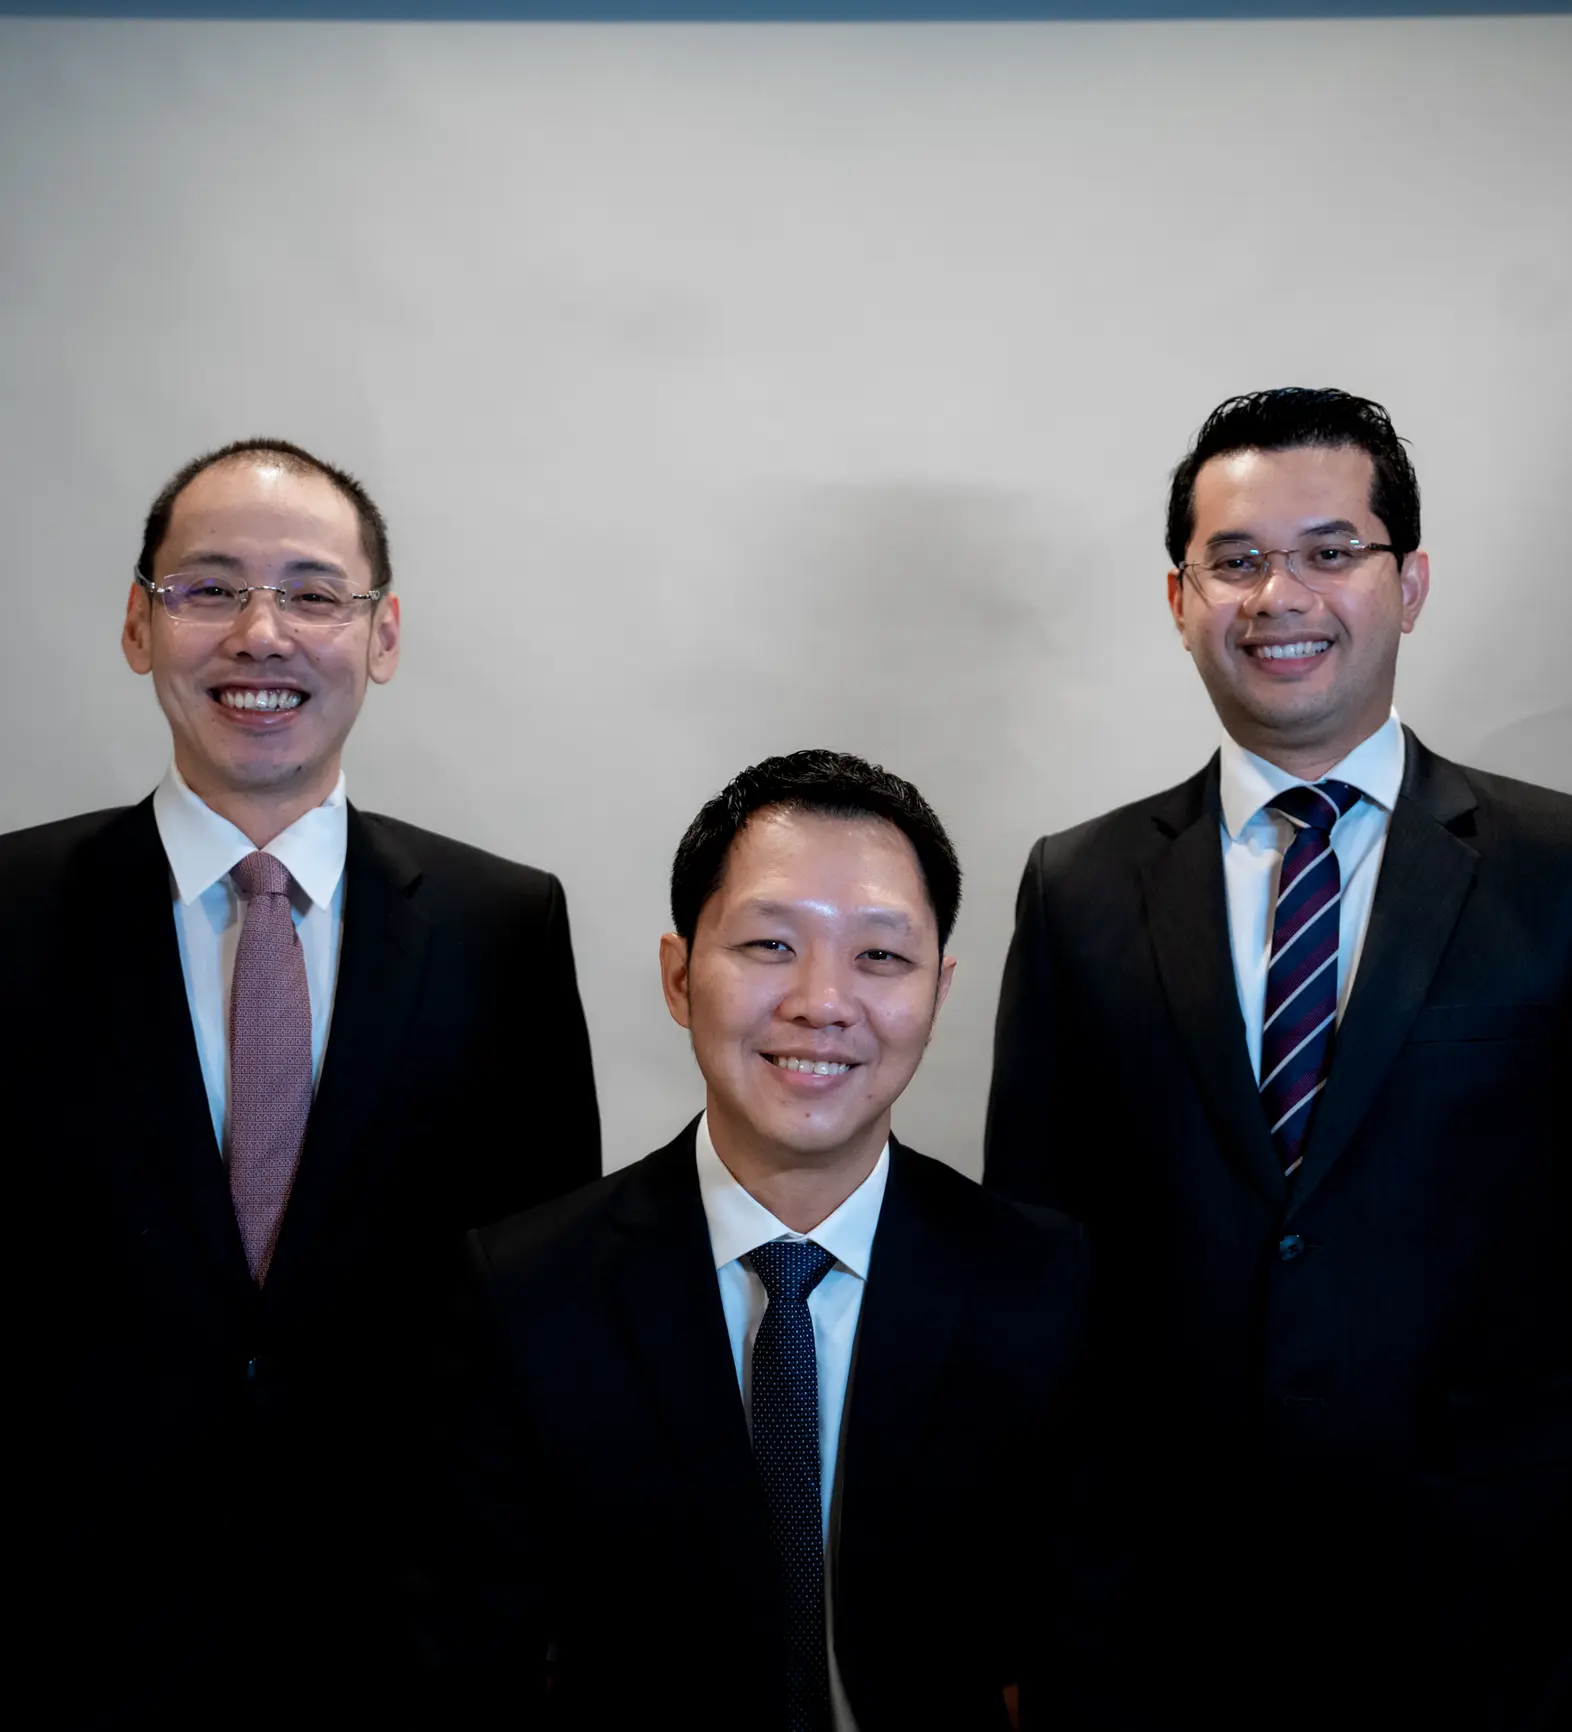
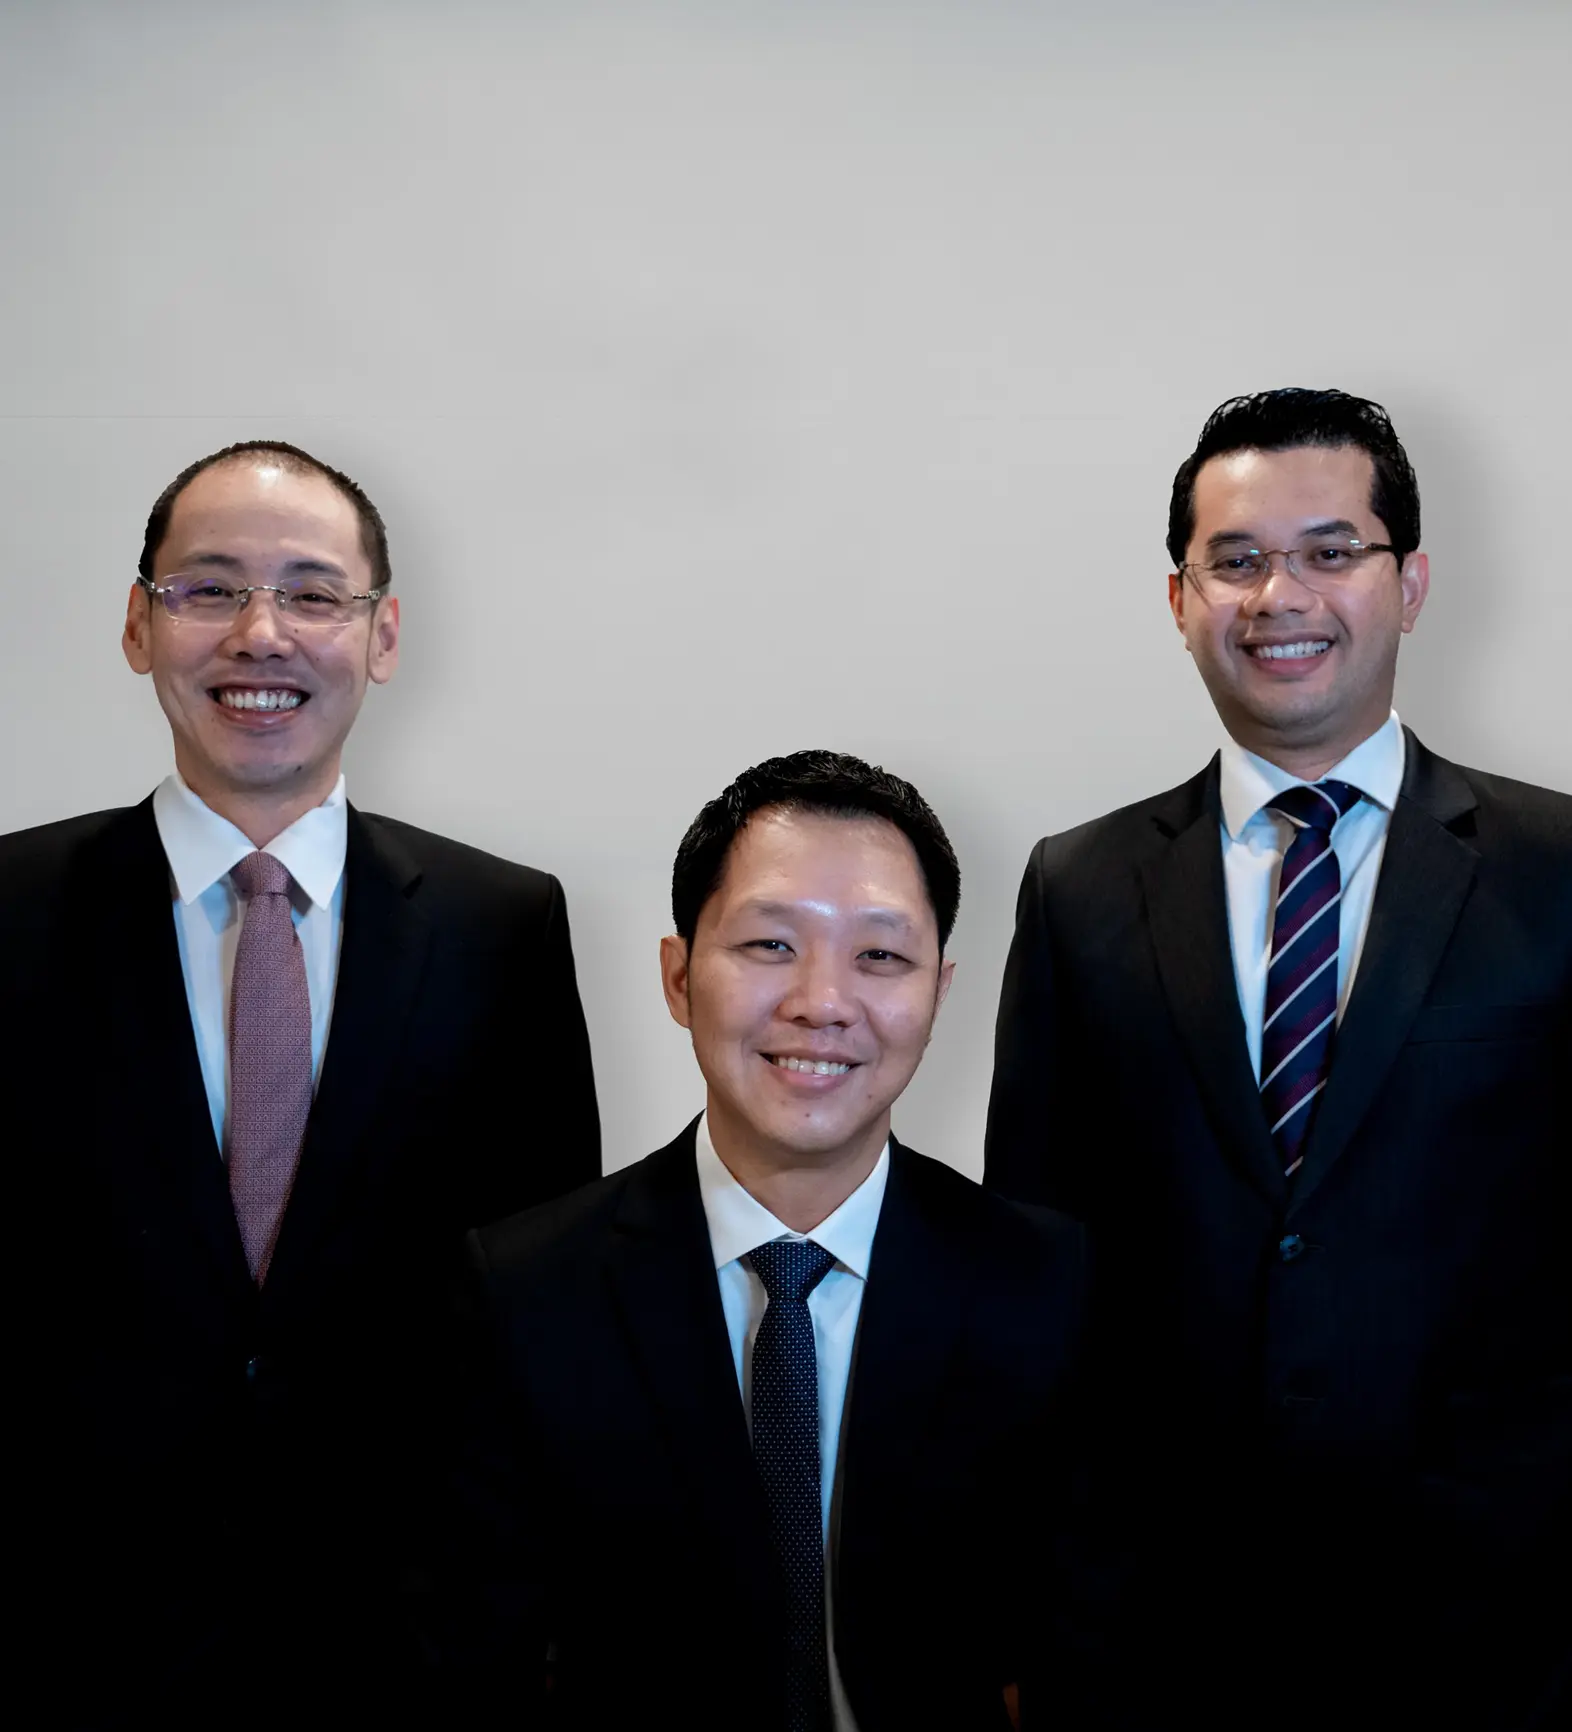
refactor:image about us

diff --git a/src/components/about/Visi-misi.tsx b/src/components/about/Visi-misi.tsx
@@ -24,7 +24,7 @@ const VisiMisi = () => {
             ${isHovered === 'visi' ? 'opacity-100' : 'sm:opacity-0 opacity-100'}`}
                 />
 
-                <div className="absolute inset-0 z-20 flex flex-col sm:flex-row items-center justify-between w-full px-[8vw] sm:px-[8vw]">
+                <div className="absolute inset-0 z-20 flex flex-col sm:flex-row items-center justify-center sm:justify-between w-full px-[8vw] sm:px-[8vw]">
                     <h1 className="font_britanica_black text-white text-[clamp(6vw,6vw,6rem)] sm:text-[clamp(3.2vw,3.2vw,3.2rem)] py-[2vw] sm:py-[1.6vw]">
                         VISION
                     </h1>
@@ -50,7 +50,7 @@ const VisiMisi = () => {
             ${isHovered === 'misi' ? 'opacity-100' : 'sm:opacity-0 opacity-100'}`}
                 />
 
-                <div className="absolute inset-0 z-20 flex flex-col-reverse sm:flex-row items-center justify-between w-full px-[8vw] sm:px-[8vw]">
+                <div className="absolute inset-0 z-20 flex flex-col-reverse sm:flex-row items-center justify-center sm:justify-between w-full px-[8vw] sm:px-[8vw]">
 
                     <p className={`text-center  sm:text-left w-full sm:w-[70%] font_britanica_black text-white text-[clamp(3.5vw,3.5vw,3.5rem)] sm:text-[clamp(1.2vw,1.5vw,3.2rem)] sm:transition-all sm:duration-500 sm:ease-in-out opacity-100 translate-x-0 ${isHovered === 'misi' ? 'sm:opacity-100 sm:translate-x-0' : 'sm:opacity-0 sm:-translate-x-1/2'}`}>
                         We achieve our vision by providing proactive, practical and client-centric legal services, leveraging our extensive litigation background to offer strategic counsel and robust advocacy in an ever-evolving legal landscape.
